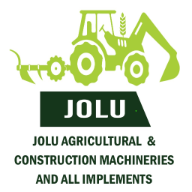
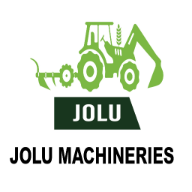
Front-end changes

diff --git a/client/src/components/AboutSection.tsx b/client/src/components/AboutSection.tsx
@@ -2,7 +2,7 @@ import { Award, Users, Wrench, ShieldCheck, Truck, Clock } from "lucide-react";
 import { Card, CardContent } from "@/components/ui/card";
 import { Badge } from "@/components/ui/badge";
 import { motion } from "framer-motion";
-import nancyChebet from "@/assets/testimonials/nancy-chebet.jpeg";
+import faithYegon from "@/assets/testimonials/faith-yegon.jpeg";
 import geoffreyBosire from "@/assets/testimonials/geoffrey-bosire.jpeg";
 import johnOuma from "@/assets/testimonials/john-ouma.jpeg";
 
@@ -58,10 +58,10 @@ const AboutSection = () => {
 
 const testimonials = [
   {
-    name: "Nancy Chebet",
+    name: "Faith Yegon",
     role: "Large Scale Maize Farmer",
     location: "Eldoret",
-    photo: nancyChebet,
+    photo: faithYegon,
     comment:
       "Jolu Machineries delivered my tractor on time and gave me hands-on training. It has completely transformed my farm’s efficiency.",
     rating: 5
@@ -105,7 +105,7 @@ const testimonials = [
             Your Trusted Agricultural Partner
           </h2>
           <p className="text-xl text-muted-foreground max-w-3xl mx-auto leading-relaxed">
-            For over 5 years, Jolu Agricultural & Construction Machineries has been Kenya's
+            For over 5 years, Jolu Machineries has been Kenya's
             premier dealer for Zoomlion agricultural equipment. We combine industry expertise
             with unwavering commitment to help farmers achieve greater productivity and success.
           </p>

diff --git a/client/index.html b/client/index.html
@@ -22,8 +22,9 @@
     <meta name="twitter:description" content="Kenya's trusted dealer for premium tractors, harvesters & implements with expert support." />
     <meta name="twitter:image" content="/jolu-preview.png" />
 
-    <!-- Favicon & Manifest -->
-    <link rel="icon" href="/favicon.ico" type="image/x-icon" />
+    <!-- ✅ Updated Favicon & Manifest -->
+    <link rel="icon" href="/lovable-uploads/jolu-machinery-logo.jpg" type="image/jpeg" />
+    <link rel="apple-touch-icon" sizes="192x192" href="/android-chrome-192x192.png" />
     <link rel="manifest" href="/site.webmanifest" />
   </head>
   <body>

diff --git a/client/src/components/Footer.tsx b/client/src/components/Footer.tsx
@@ -238,7 +238,7 @@ const Footer = () => {
 
         <div className="flex flex-col md:flex-row justify-center items-center space-y-4 md:space-y-0">
           <div className="text-white/60 text-sm">
-            © {new Date().getFullYear()} Jolu Agricultural & Construction Machineries. All rights reserved.
+            © {new Date().getFullYear()} Jolu Machineries. All rights reserved.
           </div>
         </div>
       </div>
